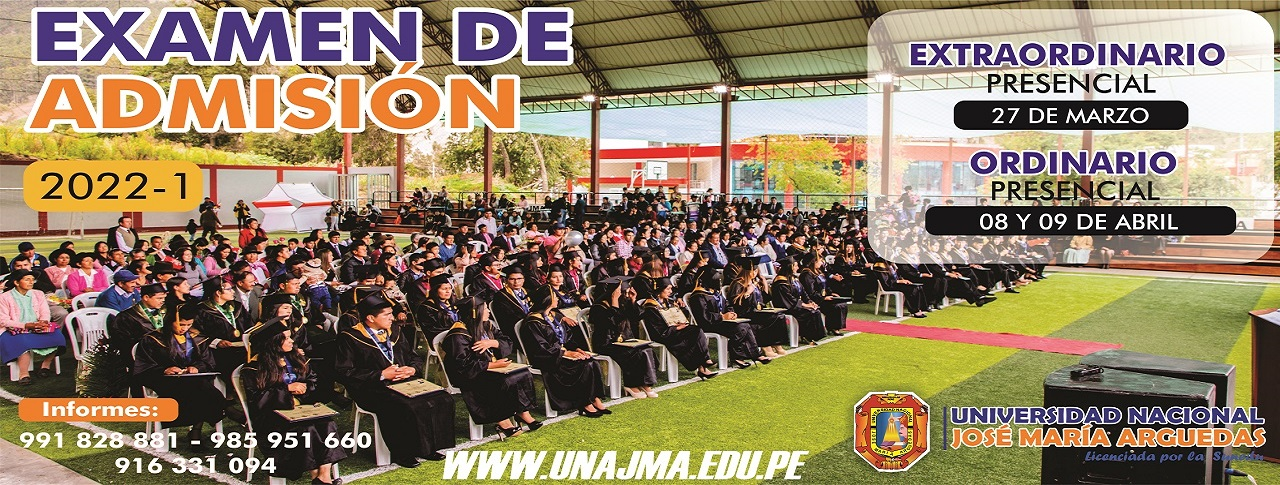
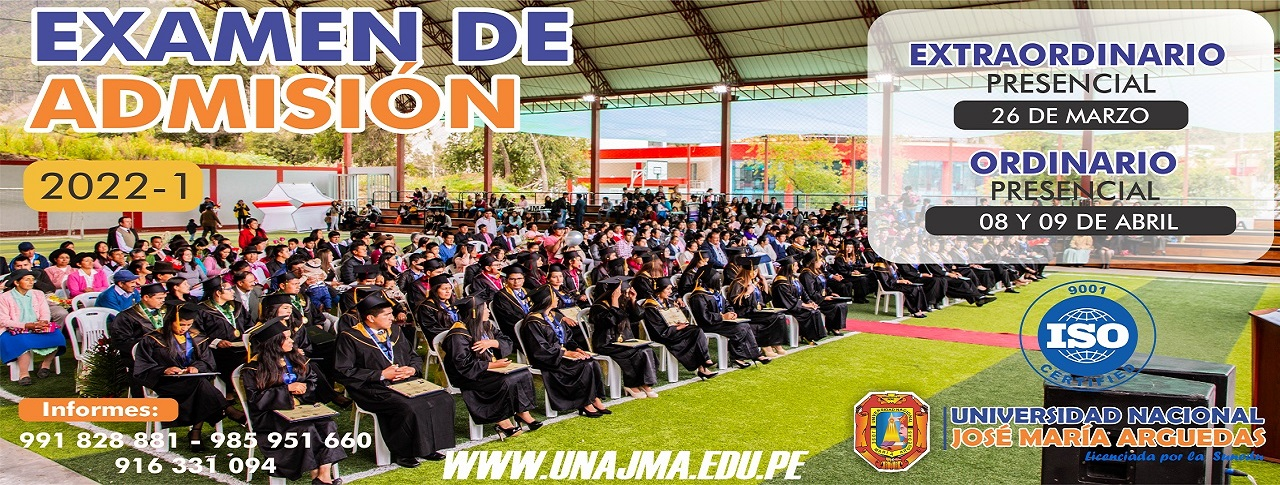
la ultima del dia creo

diff --git a/sections/modal-proceso-ordinario.html b/sections/modal-proceso-ordinario.html
@@ -7,17 +7,18 @@
 
         <div class="txt22 ">
             <h4 class="txt-titulo">
-                El postulante debe de contar con los siguientes requisitos para su inscripcion en la modalidad de Ordinario 2021-2:
+                El postulante debe de contar con los siguientes requisitos para su inscripcion en la modalidad de Ordinario 2022-1:
             </h4>
             <ul class="text-left txt-indicaciones"> 
                 <li>Documento Nacional de Identidad.</li>
                 <li>fotografía actualizada del postulante en formato .JPG</li>
                 <li>Comprobante de Pago por derecho de admisión: 
                     <br> * CUENTA BANCO DE LA NACIÓN: <strong>00 182 00 9784</strong>
-                    </br> * Colegio Nacional (S/. 210.00 ) 
-                    </br> * Colegio Particular (S/. 245.00 )
+                    </br> * Colegio Nacional (S/. 300.00 ) 
+                    </br> * Colegio Particular (S/. 360git
+                    .00 )
                 </li>
-                <li>Certificado de estudios</li>
+                <li>Certificado de estudios originales de los cinco años de Educación Secundaria el cual debe estar visado por la DRE o por la UGEL a la cual pertenece la institución educativa, o Constancia de Logro de Aprendizajes.</li>
                 <li>Correo electrónico Gmail.</li>
 <!--                 
                 <li>Estimado postulante recuerda que para poder rendir su examen virtual debe contar con los siguientes requisitos mínimos:</li>

diff --git a/sections/modal-proceso-extraordinario.html b/sections/modal-proceso-extraordinario.html
@@ -7,7 +7,7 @@
 
         <div class="txt2 ">
             <h4 class="txt-titulo">
-                El postulante debe de contar con los siguientes requisitos para su inscripcion en la modalidad de Extraordinario 2021-2:
+                El postulante debe de contar con los siguientes requisitos para su inscripcion en la modalidad de Extraordinario 2022-1:
             </h4>
             <ul class="text-left txt-indicaciones"> 
                 <li>Documento Nacional de Identidad.</li>
@@ -18,7 +18,7 @@
                     <!-- </br> * Colegio Nacional (S/. 150.00 ) 
                     </br> * Colegio Particular (S/. 180.00 ) -->
                 </li>
-                <li>Certificado de estudios</li>
+                <li>Certificado de estudios originales de los cinco años de Educación Secundaria el cual debe estar visado por la DRE o por la UGEL a la cual pertenece la institución educativa, o Constancia de Logro de Aprendizajes.</li>
                 <li>Correo electrónico Gmail.</li>
                 <!-- <li>Estimado postulante recuerda que para poder rendir su examen virtual debe contar con los siguientes requisitos mínimos:</li>
                 <li>Un (01) ambiente privado, sin interrupción de equipos electrónicos encendidos (radio, televisión, celulares, computadoras u otros), acondicionado con una (01) silla y una (01) mesa, escritorio u otro de 1 metro por 60 cm. Aproximadamente.</li>

diff --git a/sections/modal-proceso-cepre.html b/sections/modal-proceso-cepre.html
@@ -7,7 +7,7 @@
 
         <div class="txt21 ">
             <h4 class="txt-titulo">
-                El postulante debe de contar con los siguientes requisitos para su inscripcion en la modalidad de Cepre 2021-3:
+                El postulante debe de contar con los siguientes requisitos para su inscripcion en la modalidad de Cepre 2022-1:
             </h4>
             <ul class="text-left txt-indicaciones"> 
                 <li>Correo electrónico Gmail.</li>

diff --git a/index.php b/index.php
@@ -100,7 +100,7 @@
                                         <span class="text-admision text-sh2">DE ADMISIÓN</span>
                                         <br>
                                         <span class="text-sh1">2022 - 1</span>
-                                        <BR><span class="text-admision text-sh2">EXTRAORDINARIO: 27 DE MARZO</span> </BR>
+                                        <BR><span class="text-admision text-sh2">EXTRAORDINARIO: 26 DE MARZO</span> </BR>
                                     </span>
                                     <br>
                                     <a href="index.php#admision2" class="btn btn-light btn-lg mt-4 py-3 px-5 txt-btn-inscr bold">
@@ -248,6 +248,11 @@
         <section class="seccion-admision py-5" id="admision2">
             <div class="container">
                 <div class="col-md-12 seccion-1"> 
+                    <svg xmlns="http://www.w3.org/2000/svg" class="icon icon-tabler icon-tabler-device-laptop" width="200" height="200" viewBox="0 0 24 24" stroke-width="2" stroke="#ff9300" fill="none" stroke-linecap="round" stroke-linejoin="round">
+                    <path stroke="none" d="M0 0h24v24H0z" fill="none"/>
+                    <line x1="3" y1="19" x2="21" y2="19" />
+                    <rect x="5" y="6" width="14" height="10" rx="1" />
+                    </svg>
                     <!-- <a href="#" class="">
                         CUENTA BANCO DE LA NACIÓN : 
                         <br>
